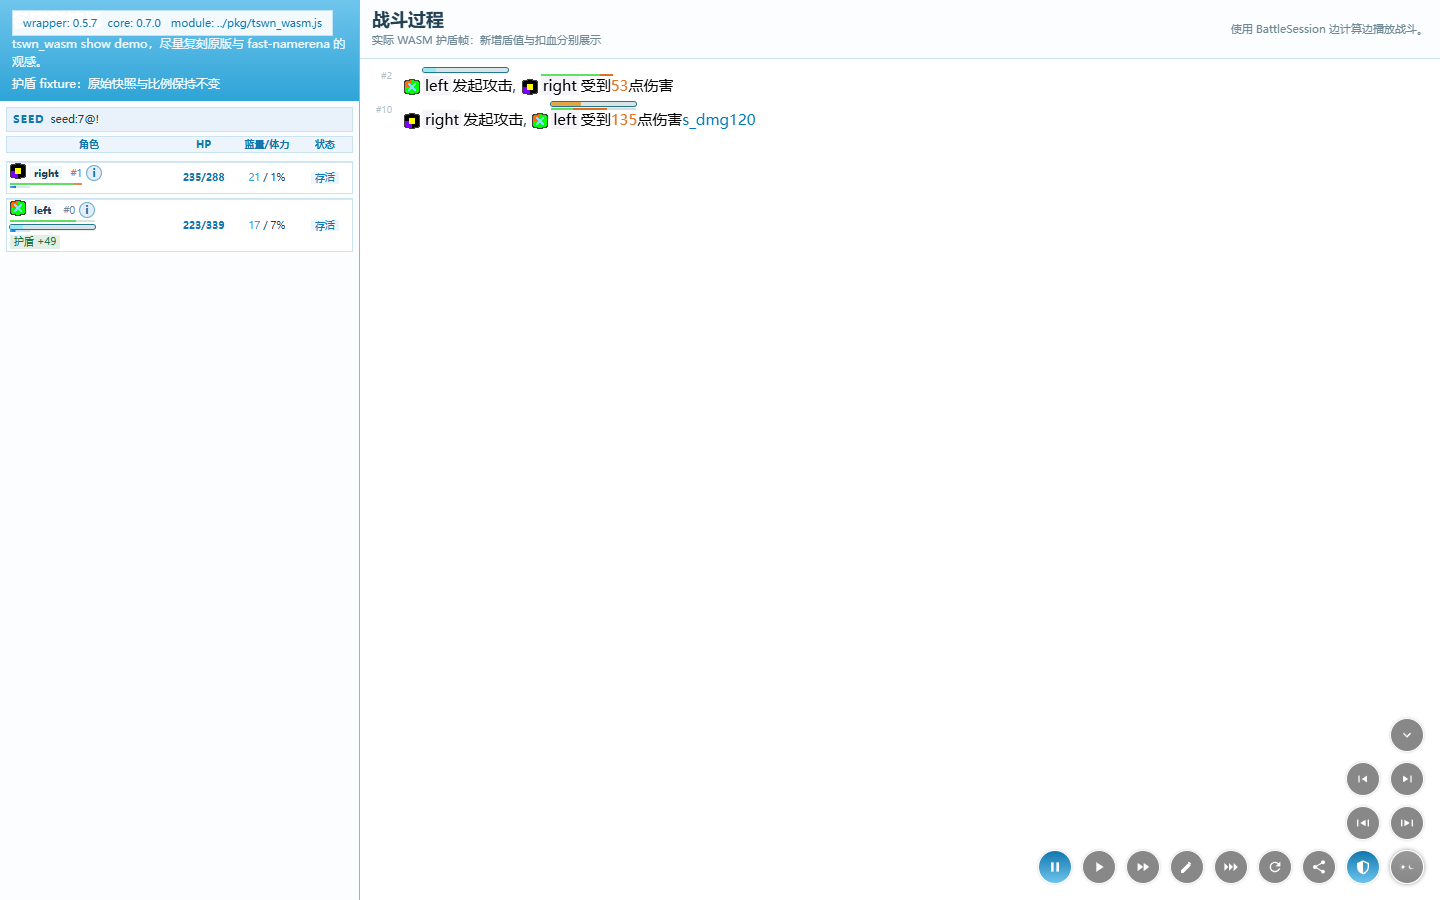
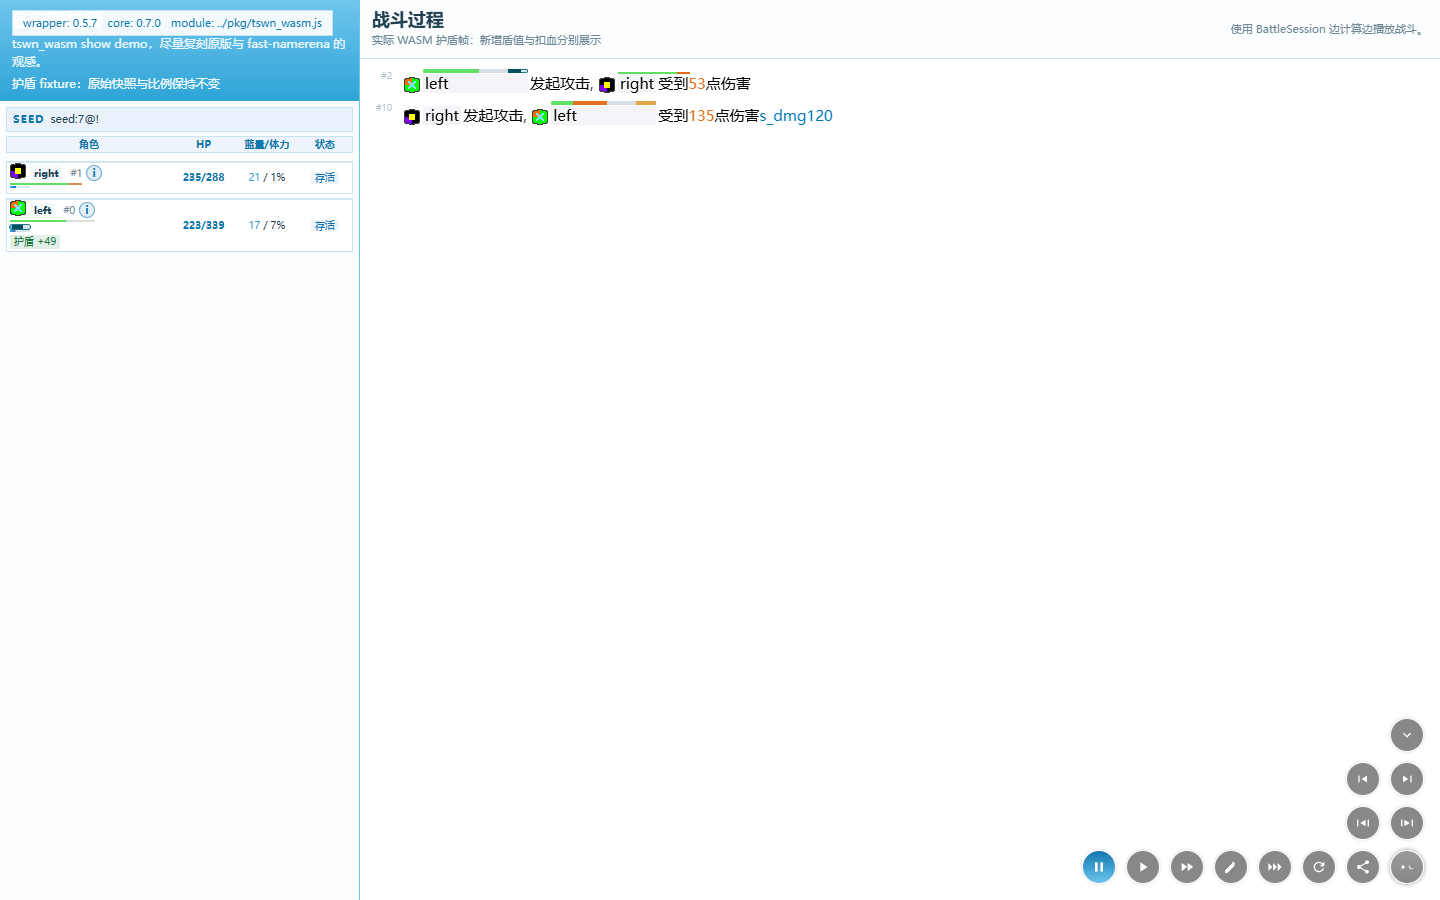
docs(wasm): 补齐 0.5.7 盾条更新与验收截图
继续使用尚未推送的 0.5.7，说明常驻拼接条、动态熟练度上限、浅色增量配色和详情护盾状态，移除旧开关说明。记录实际 Edge、工作区回归和 Node/Bun 验证，更新明暗、移动、详情与 Dark Reader 截图。

diff --git a/crates/tswn_wasm/CHANGELOG.md b/crates/tswn_wasm/CHANGELOG.md
@@ -6,22 +6,27 @@
 
 ### 新增
 
-- show 页面增加盾条开关（快捷键 `B`），默认关闭并保存选择；开启后侧栏与对战文字显示独立盾条，切换保留播放位置与历史。
-- 护盾剩余值在角色状态标签区显示为绿色的 `护盾 +数值`，与其他正面状态并列；标签不受盾条开关影响，消耗时更新，破盾或死亡时移除。
+- show 页面常驻显示有护盾技能角色的盾条，不再提供隐藏按钮、`B` 快捷键或持久化开关；旧隐藏偏好不影响显示。
+- 护盾剩余值在角色状态标签区和详情面板的「状态」中同步显示为 `护盾 +数值`，与其他正面状态并列；消耗时更新，破盾或死亡时移除数值标签。
 - `PlayerState` 与 TypeScript 声明新增 `shield` 字段，贯通初始、帧、片段前后与最终状态；旧回放缺省值按零处理。
+- 规范 `BattlePlayerState`、兼容 `PlayerState` 及跨语言声明新增 `max_shield`，取当前护盾技能熟练度，吞噬后随快照更新；盾条上限不再借用最大 HP。
 - show 页面声明原生 `color-scheme` 并通过 `darkreader-lock` 请求 Dark Reader 跳过二次转换；仍检测到本页 Dynamic 深色注入标记时显示提醒，标记移除后自动收起，不读取插件全局设置。
 
 ### 变更
 
 - 深色模式为像素图标增加浅色衬底，保留原图颜色与深色轮廓；提高名字框、死亡名字和状态标签的对比度。
-- 盾条加粗为 4px，增加主题描边和高光；保留每 4 点 1px 的宽度与增减区段，正文为盾条预留行高，避免压到文字或 HP 条。
-- show 页面脚本缓存版本更新为 `20261013b`。
+- 右侧对战区的盾条与 HP 条同为 4px，并紧接 HP 底轨右侧；预留行高与横向宽度，避免压到文字或后续角色。仍按每 4 点 1px 展示新增/消耗区段。
+- 护盾超过熟练度时条形截在展示上限内，真实盾值与数值提示保留，不改变护盾吸收、生成或破盾规则；旧数据缺少上限时退回前后盾值。
+- show 页面脚本缓存版本更新为 `20261013c`。
 - show 样式按基础主题、角色、回放和面板拆分，通过原 `show.css` 按原始层叠顺序加载。
+- 将页面的播放控制、主题与悬浮高亮、详情渲染、共享类型说明从入口分离；各手写源文件不超过 1000 行，沿用同一会话状态和播放计划。
 - 前端回归从 `examples/` 移到独立 `tests/`，不进入示例分发；同一套 `node:test` 用例可由 Bun 或 Node 执行，无需额外 npm 依赖。
 - 删除仅扫描页面源码写法的维护约束测试，保留实际渲染、护盾更新、流式生命周期和主题对比度回归；目录与架构约定留在文档。
 
 ### 修复
 
+- 浅色模式的新增护盾区段改为深青色，与底轨及已有护盾区段的对比度均不低于 3:1。
+- 角色详情复用侧栏的实时状态标签，修复只有侧栏显示护盾、详情「状态」遗漏护盾的问题。
 - 修复瘟疫成功后的百分比伤害句缺少右侧 HP 条的问题；条形变化使用实际扣血量，而非文本显示的百分比。
 - 护盾生成、消耗与破盾显示回合净变化，死亡投影为零；铁壁单次减伤阈值继续作为独立状态标签，战斗规则保持不变。
 
@@ -33,9 +38,11 @@
 
 - `cargo check -p tswn_wasm --target wasm32-unknown-unknown` 通过。
 - 增加护盾生成、吸收、死亡、快照序列化、瘟疫百分比 HP 变化以及页面标签增量更新的回归测试。
-- `cargo test -p tswn_wasm`、网页模块测试与播放契约验证通过；真实浏览器覆盖默认开关、标签常驻、护盾消耗、瘟疫及明暗主题和移动布局。
-- 本次封板重新通过 Rust 11 项、Node/Bun 各 34 项、真实 Node WASM 契约 8 项及 DOM 验证；WASM 分发构建和实际 `version()` 均为 `0.5.7`。
-- 隔离 Edge 验证明暗盾条的可见厚度、行内空间、与 HP 条不重叠及移动布局；官方 Dark Reader `4.9.133` npm API 验证 lock、真实 Dynamic 注入提醒与清理。此项不代表读取或操纵用户的扩展全局设置，截图见 [示例说明](examples/README.md#外观验收截图)。
+- `cargo test -p tswn_wasm`、网页模块测试与播放契约验证通过；真实浏览器覆盖盾条常驻、详情护盾标签、护盾消耗、瘟疫及明暗主题和移动布局。
+- 本次封板重新通过 WASM Rust 11 项、Node/Bun 各 37 项、真实 Node WASM 契约 8 项及 DOM 验证；WASM 分发构建和实际 `version()` 均为 `0.5.7`。
+- core 行为测试通过真实吞噬 effect 验证护盾熟练度上限变化，初始/帧/片段前后/最终状态序列化及兼容 API 投影均保留该字段，不重生成 golden/corpus。
+- 工作区测试（含 124 项 runtime corpus）通过；本机默认临时目录拒绝写入，验证时仅将 `TEMP/TMP` 指向 `target` 下的测试目录，未修改业务代码或系统设置。Clippy 执行成功，既有告警未批量修正。
+- 隔离 Edge 验证盾条紧接 HP 条右侧、同高对齐、按熟练度定长及移动布局，并在真实页面步进后检查详情状态；官方 Dark Reader `4.9.133` npm API 验证 lock、真实 Dynamic 注入提醒与清理。此项不代表读取或操纵用户的扩展全局设置，截图见 [示例说明](examples/README.md#外观验收截图)。
 
 ## [0.5.6] - 2026-09-30
 
